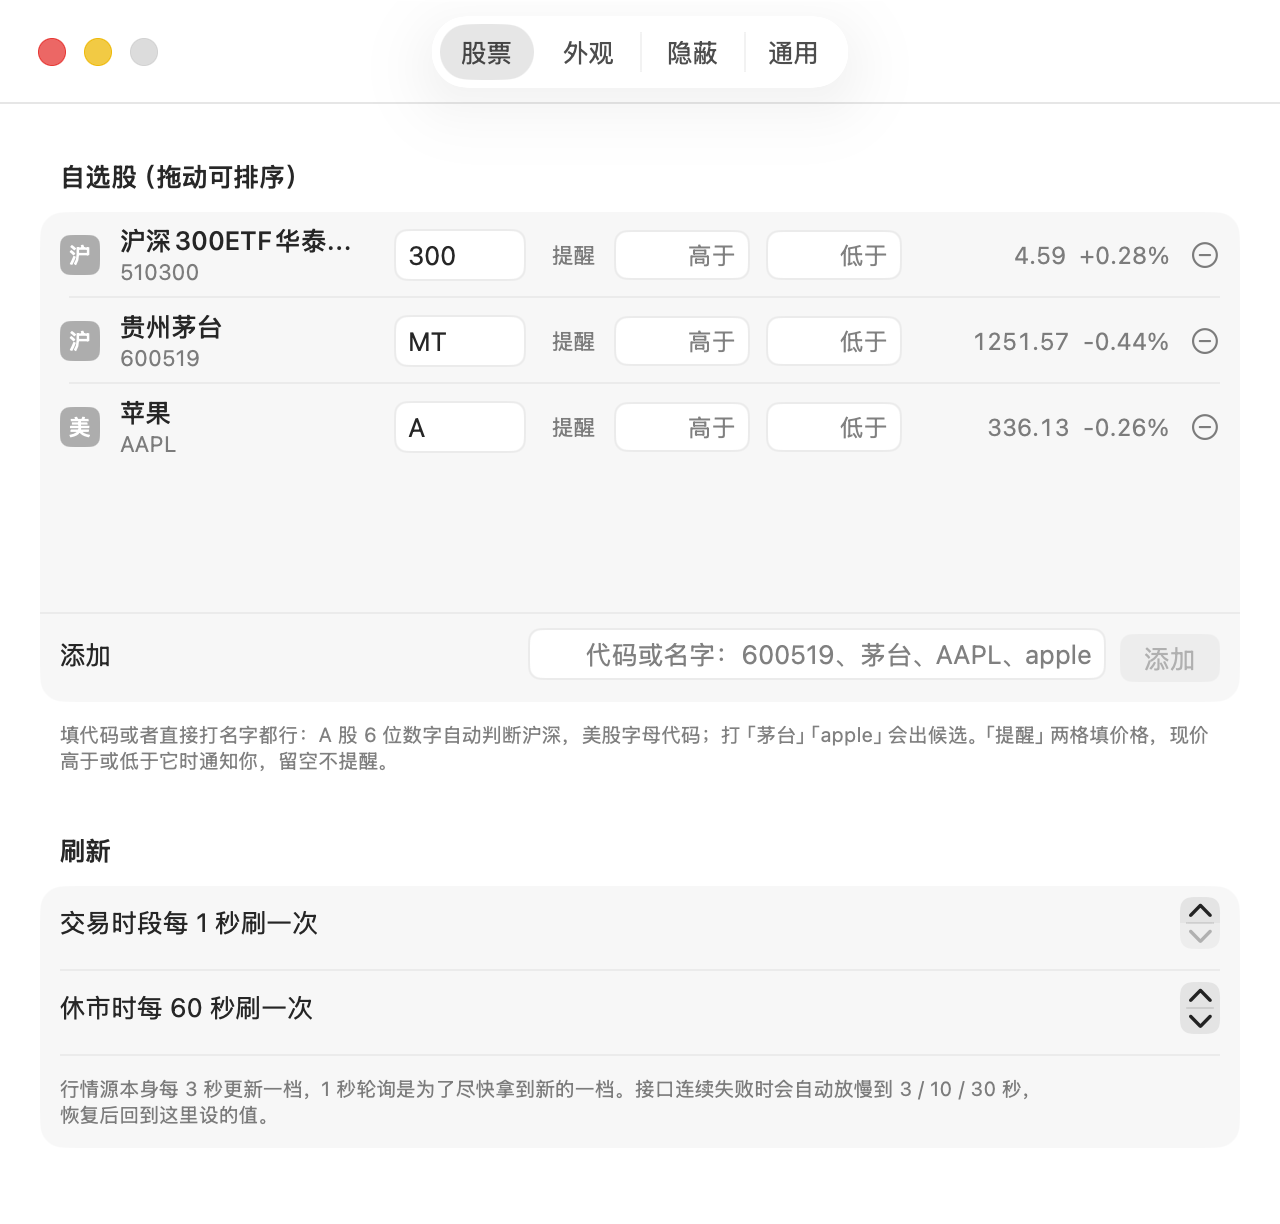
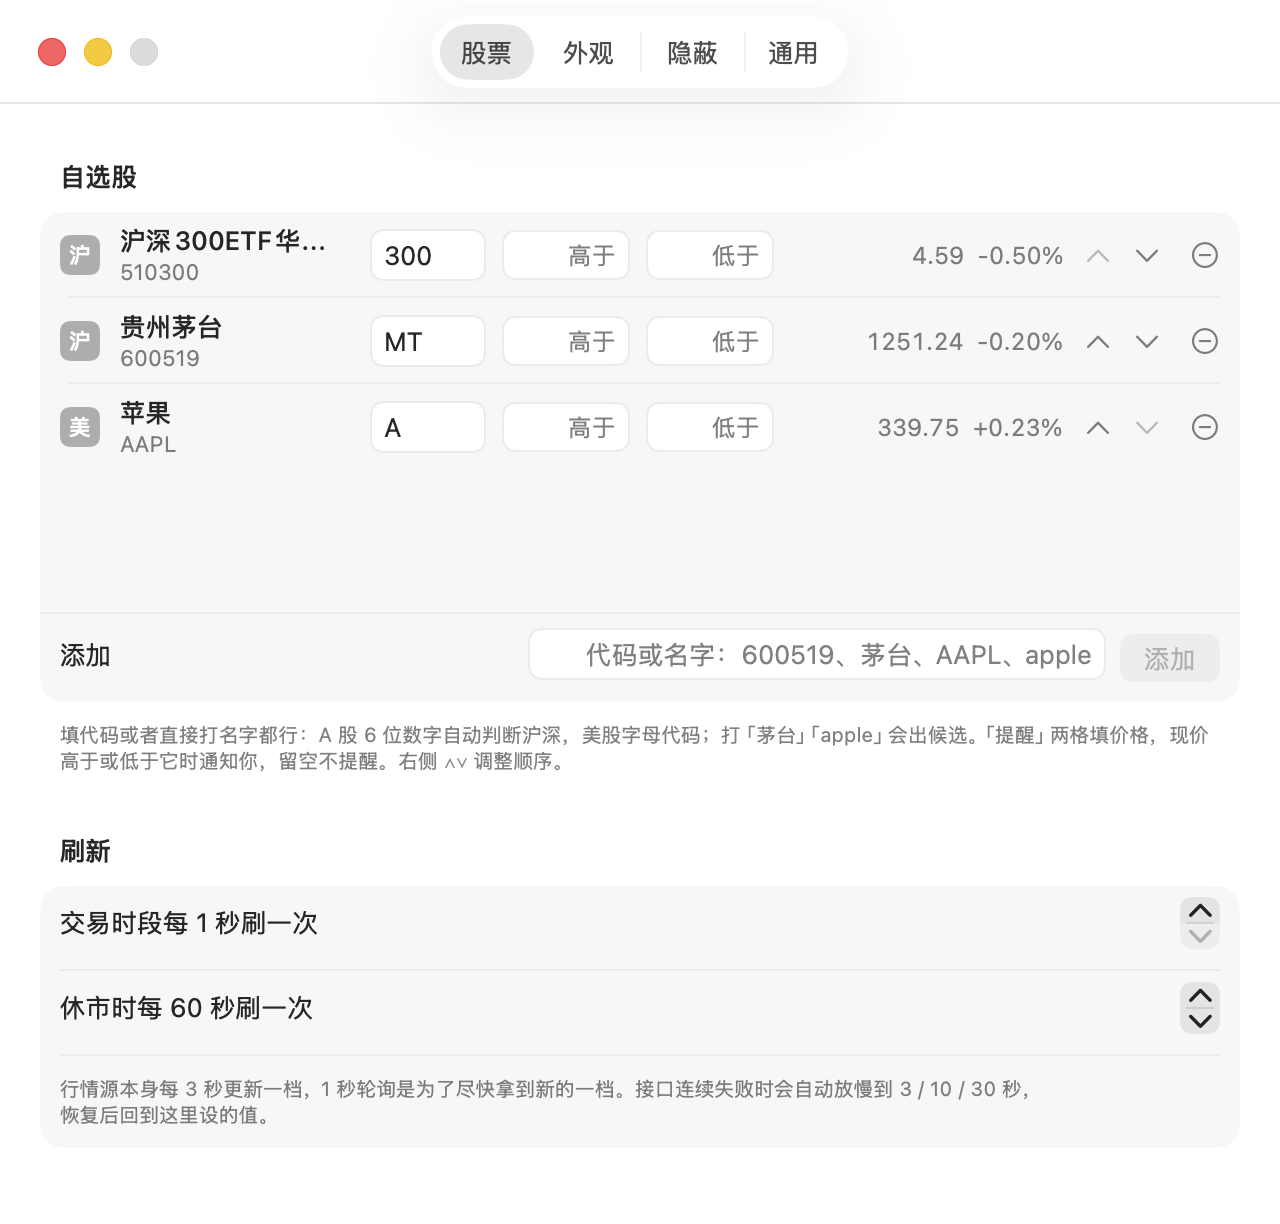
小条 1.2：修跑一天后越来越卡，设置里输入框点了就能打字
- 设置窗口关闭后彻底拆掉 SwiftUI 视图；之前窗口只是隐藏，里面的界面仍跟着每秒行情刷新重排，
  TabView 每次重排都泄漏一点，跑一天主线程被吃满（实测 91% CPU、570MB），右键菜单要等很久。
- 设置界面只在设置真正变化时刷新，不再跟着时钟和行情每秒重排。
- 改设置时只做相关动作：快捷键变了才重注册，登录启动变了才问系统，股票列表变了才重拉行情；
  以前每敲一个字都发一次行情请求。
- 自选股列表去掉拖动排序（系统列表为分辨拖动会延迟约 0.6 秒才把焦点交给输入框），改为行内 ∧∨ 按钮排序；
  收窄列宽、去掉多余的「提醒」标签。

diff --git a/App/Sources/SettingsView.swift b/App/Sources/SettingsView.swift
@@ -3,12 +3,13 @@ import AppKit
 
 /// 设置：改动即时生效
 struct SettingsView: View {
+    // 只观察 AppState：它在设置变化时才通知。不直接观察 TickerModel，
+    // 否则每秒的时钟/行情更新都会让整个 TabView 重排，而 TabView 每重排一次都会漏一点内存。
     @ObservedObject var state: AppState
-    @ObservedObject var model: TickerModel
 
     @State private var tab: Int = Int(ProcessInfo.processInfo.environment["XIAOTIAO_DEMO_TAB"] ?? "") ?? 0
 
-    init(state: AppState) { self.state = state; self.model = state.model }
+    init(state: AppState) { self.state = state }
 
     var s: Binding<AppSettings> {
         Binding(get: { state.model.settings }, set: { state.settings = $0 })
@@ -16,7 +17,7 @@ struct SettingsView: View {
 
     var body: some View {
         TabView(selection: $tab) {
-            StocksTab(state: state, s: s).tabItem { Label("股票", systemImage: "list.bullet") }.tag(0)
+            StocksTab(state: state, model: state.model, s: s).tabItem { Label("股票", systemImage: "list.bullet") }.tag(0)
             LookTab(s: s).tabItem { Label("外观", systemImage: "paintbrush") }.tag(1)
             StealthTab(s: s).tabItem { Label("隐蔽", systemImage: "eye.slash") }.tag(2)
             GeneralTab(state: state, s: s).tabItem { Label("通用", systemImage: "gearshape") }.tag(3)
@@ -30,6 +31,7 @@ struct SettingsView: View {
 
 struct StocksTab: View {
     @ObservedObject var state: AppState
+    @ObservedObject var model: TickerModel   // 现价列要跟着行情动，只有这一页观察它
     var s: Binding<AppSettings>
     @State private var input = ""
     @State private var message = ""
@@ -50,21 +52,26 @@ struct StocksTab: View {
                                 Text(sym.name.isEmpty ? sym.code : sym.name).font(.system(size: 13, weight: .medium)).lineLimit(1)
                                 Text(sym.code).font(.system(size: 11)).foregroundStyle(.secondary)
                             }
-                            .frame(width: 128, alignment: .leading)
-                            TextField("代号", text: $sym.alias, prompt: Text("代号")).textFieldStyle(.roundedBorder).frame(width: 64)
-                            Text("提醒").font(.system(size: 11)).foregroundStyle(.secondary).padding(.leading, 4)
-                            OptionalNumberField(prompt: "高于", value: $sym.alertHigh).frame(width: 66)
-                            OptionalNumberField(prompt: "低于", value: $sym.alertLow).frame(width: 66)
+                            .frame(width: 116, alignment: .leading)
+                            TextField("代号", text: $sym.alias, prompt: Text("代号")).textFieldStyle(.roundedBorder).frame(width: 56)
+                            OptionalNumberField(prompt: "高于", value: $sym.alertHigh).frame(width: 62)
+                            OptionalNumberField(prompt: "低于", value: $sym.alertLow).frame(width: 62)
                             Spacer(minLength: 6)
-                            if let q = state.model.quotes[sym.tencentKey] {
+                            if let q = model.quotes[sym.tencentKey] {
                                 Text(String(format: "%.2f  %+.2f%%", q.price, q.pct)).font(.system(size: 12)).monospacedDigit().foregroundStyle(.secondary)
                                     .lineLimit(1).fixedSize()
                             }
-                            Button { s.wrappedValue.symbols.removeAll { $0.id == sym.id } } label: { Image(systemName: "minus.circle") }.buttonStyle(.plain).foregroundStyle(.secondary)
+                            // 排序用按钮而不用拖动：列表一旦能拖，系统每次按下都要先等半秒多判断是不是在拖，
+                            // 输入框点了要 1 秒左右才能打字。
+                            let idx = s.wrappedValue.symbols.firstIndex { $0.id == sym.id } ?? 0
+                            Button { move(sym.id, by: -1) } label: { Image(systemName: "chevron.up") }.buttonStyle(.plain).foregroundStyle(.secondary)
+                                .disabled(idx == 0).help("上移")
+                            Button { move(sym.id, by: 1) } label: { Image(systemName: "chevron.down") }.buttonStyle(.plain).foregroundStyle(.secondary)
+                                .disabled(idx >= s.wrappedValue.symbols.count - 1).help("下移")
+                            Button { s.wrappedValue.symbols.removeAll { $0.id == sym.id } } label: { Image(systemName: "minus.circle") }.buttonStyle(.plain).foregroundStyle(.secondary).padding(.leading, 4)
                         }
                         .padding(.vertical, 2)
                     }
-                    .onMove { from, to in s.wrappedValue.symbols.move(fromOffsets: from, toOffset: to) }
                 }
                 .frame(minHeight: 200)
                 HStack {
@@ -92,8 +99,8 @@ struct StocksTab: View {
                     }
                 }
                 if !message.isEmpty { Text(message).font(.caption).foregroundStyle(message.hasPrefix("已添加") ? .secondary : Color.red) }
-            } header: { Text("自选股（拖动可排序）") } footer: {
-                Text("填代码或者直接打名字都行：A 股 6 位数字自动判断沪深，美股字母代码；打「茅台」「apple」会出候选。「提醒」两格填价格，现价高于或低于它时通知你，留空不提醒。").font(.caption).foregroundStyle(.secondary)
+            } header: { Text("自选股") } footer: {
+                Text("填代码或者直接打名字都行：A 股 6 位数字自动判断沪深，美股字母代码；打「茅台」「apple」会出候选。「提醒」两格填价格，现价高于或低于它时通知你，留空不提醒。右侧 ∧∨ 调整顺序。").font(.caption).foregroundStyle(.secondary)
             }
             Section("刷新") {
                 Stepper("交易时段每 \(Int(s.wrappedValue.fastInterval)) 秒刷一次", value: s.fastInterval, in: 1...60)
@@ -102,6 +109,13 @@ struct StocksTab: View {
             }
         }
         .formStyle(.grouped)
+    }
+
+    func move(_ id: UUID, by delta: Int) {
+        var arr = s.wrappedValue.symbols
+        guard let i = arr.firstIndex(where: { $0.id == id }), arr.indices.contains(i + delta) else { return }
+        arr.swapAt(i, i + delta)
+        s.wrappedValue.symbols = arr
     }
 
     func scheduleSearch(_ text: String) {
@@ -283,7 +297,7 @@ struct GeneralTab: View {
                 if let e = state.lastError { Text("最近一次错误：" + e).font(.caption).foregroundStyle(.red) }
             }
             Section("关于") {
-                Text("小条 1.1。桌面隐蔽行情条。").font(.caption).foregroundStyle(.secondary)
+                Text("小条 1.2。桌面隐蔽行情条。").font(.caption).foregroundStyle(.secondary)
             }
         }
         .formStyle(.grouped)

diff --git a/App/Sources/AppState.swift b/App/Sources/AppState.swift
@@ -14,16 +14,17 @@ final class AppState: ObservableObject {
     private var clockTimer: Timer?
     private var mouseMonitor: Any?
     private var settingsWindow: NSWindow?
+    private var settingsCloseObserver: NSObjectProtocol?
     private var cancellables: Set<AnyCancellable> = []
     @Published var lastError: String? = nil
-    @Published var lastUpdate: Date? = nil
+    var lastUpdate: Date? = nil   // 只给菜单用，不发通知，免得设置窗口每秒跟着重排
     @Published var visible = true
     /// 连续失败次数，用来自动退避：1 秒 → 3 秒 → 10 秒 → 30 秒，恢复后回到设定值
     private var failures = 0
 
     var settings: AppSettings {
         get { model.settings }
-        set { model.settings = newValue; newValue.save(); settingsChanged() }
+        set { let old = model.settings; model.settings = newValue; newValue.save(); settingsChanged(from: old, to: newValue) }
     }
 
     private var autoHidden = false          // 因为会议类应用到前台而自动藏起来的
@@ -32,6 +33,9 @@ final class AppState: ObservableObject {
     private init() {
         model.settings = AppSettings.load()
         model.onTap = { [weak self] sym in self?.openQuotePage(sym) }
+        // 设置变了才通知观察 AppState 的界面（设置窗口）；行情、时钟这些每秒的变化不打扰它
+        model.$settings.dropFirst().removeDuplicates()
+            .sink { [weak self] _ in self?.objectWillChange.send() }.store(in: &cancellables)
     }
 
     func start() {
@@ -149,13 +153,17 @@ final class AppState: ObservableObject {
 
     // MARK: 设置变更
 
-    private func settingsChanged() {
+    /// 只做跟这次改动有关的事。设置页里每敲一个字都会走到这里，
+    /// 以前不分青红皂白地重注册快捷键、问系统登录启动状态（同步 XPC）、发一次行情请求，
+    /// 输入框就跟着一顿一顿的。
+    private func settingsChanged(from old: AppSettings, to new: AppSettings) {
         overlay.applyInteraction()
-        registerHotKeys()
-        applyLaunchAtLogin()
+        if old.toggleHotKey != new.toggleHotKey || old.disguiseHotKey != new.disguiseHotKey { registerHotKeys() }
+        if old.launchAtLogin != new.launchAtLogin { applyLaunchAtLogin() }
         refreshMenu()
-        scheduleNext()
-        refresh()
+        let oldKeys = old.symbols.map { $0.tencentKey }, newKeys = new.symbols.map { $0.tencentKey }
+        if oldKeys != newKeys || old.fastInterval != new.fastInterval || old.slowInterval != new.slowInterval { scheduleNext() }
+        if oldKeys != newKeys { refresh() }
     }
 
     // MARK: 行情
@@ -188,7 +196,7 @@ final class AppState: ObservableObject {
                         self.model.settings = s; s.save()
                     }
                 }
-                self.lastError = err
+                if self.lastError != err { self.lastError = err }
                 self.failures = quotes.isEmpty ? self.failures + 1 : 0
                 self.refreshMenu()
             }
@@ -322,6 +330,15 @@ final class AppState: ObservableObject {
             w.isReleasedWhenClosed = false
             w.center()
             settingsWindow = w
+            // 关窗就把里面的 SwiftUI 视图拆掉、窗口丢掉，下次打开重建。
+            // 不拆的话它会躲在后台跟着每秒的行情刷新反复重排，TabView 每排一次都漏一点内存，
+            // 跑一天主线程就被它吃满，右键菜单要等很久才出来。
+            settingsCloseObserver = NotificationCenter.default.addObserver(forName: NSWindow.willCloseNotification, object: w, queue: .main) { [weak self] _ in
+                guard let self = self else { return }
+                self.settingsWindow?.contentView = nil
+                self.settingsWindow = nil
+                if let o = self.settingsCloseObserver { NotificationCenter.default.removeObserver(o); self.settingsCloseObserver = nil }
+            }
         }
         NSApp.activate(ignoringOtherApps: true)
         settingsWindow?.makeKeyAndOrderFront(nil)

diff --git a/使用说明.md b/使用说明.md
@@ -36,7 +36,7 @@
 - **纯数字**：去掉名字、箭头和百分号，只剩「4.60 0.31 | 1251.43 -0.45」这样一串数。
 
 ## 设置（菜单栏图标 → 设置…，或按 ⌘,）
-**股票**：输入代码或名字添加。A股填6位数字（600519、000001、510300都行，程序自动判断沪深），美股填字母（AAPL、TSLA）；也可以直接打「茅台」「apple」，从候选里点。每只可以起代号，浮窗上就显示代号。拖动排序，减号删除。交易时段刷新间隔默认1秒（行情源本身每3秒更新一档，1秒轮询是为了尽快拿到新的一档），休市60秒。接口连续失败会自动放慢到3 / 10 / 30秒，恢复后回到设定值。
+**股票**：输入代码或名字添加。A股填6位数字（600519、000001、510300都行，程序自动判断沪深），美股填字母（AAPL、TSLA）；也可以直接打「茅台」「apple」，从候选里点。每只可以起代号，浮窗上就显示代号。右侧上下箭头调整顺序，减号删除。交易时段刷新间隔默认1秒（行情源本身每3秒更新一档，1秒轮询是为了尽快拿到新的一档），休市60秒。接口连续失败会自动放慢到3 / 10 / 30秒，恢复后回到设定值。
 
 **外观**：动态（价格变化轻闪、休市变暗、点击开行情页、提醒音）；大小70%～200%、底色不透明度、圆角；底（墨玻璃 / 纸白 / 无底）；涨跌颜色（单色 / 红涨绿跌 / 绿涨红跌）；字体（系统 / 圆体 / 衬线 / 等宽）；横条或竖列；边框、阴影；名字显示方式（不显示 / 代号 / 真名）；涨跌标记（▲▼箭头 / +−正负号 / 不标）、涨跌额、小数位。所有改动即时反映在浮窗上。
 
